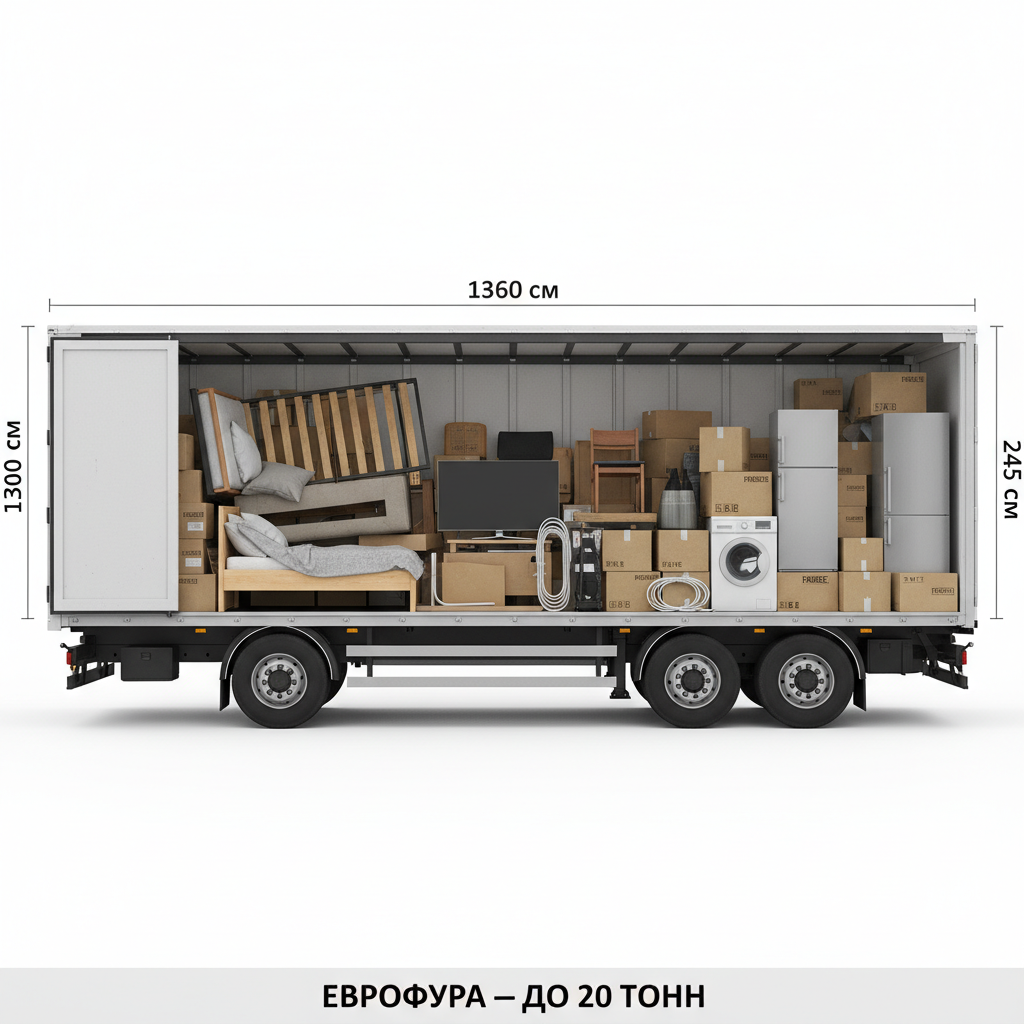
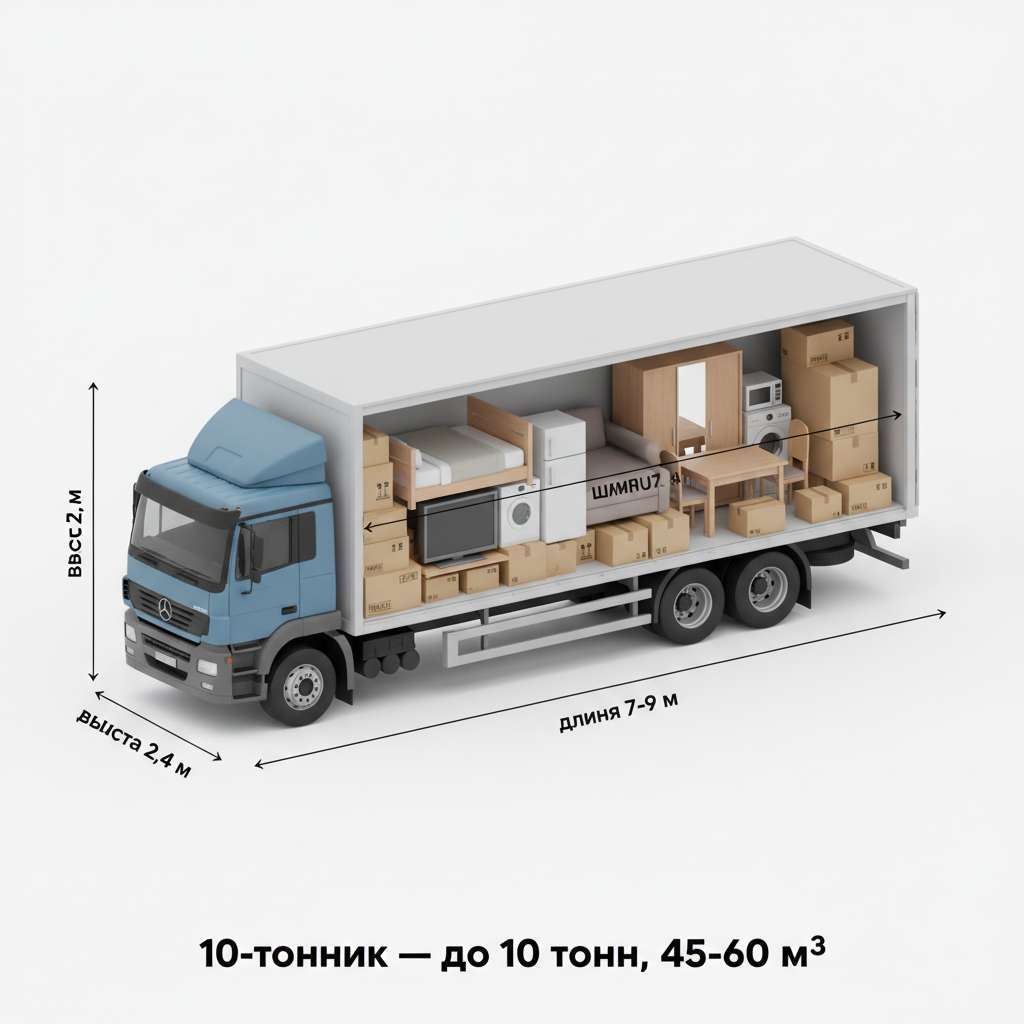
feat: 5 vehicle types with real specs + CNAME for ex-trans.ru
- Regenerated all vehicle scheme images with client's exact specs:
  Gazelle (1.5t), 5t (16-24m³), 5t ext (24-55m³), 10t (45-60m³), Fura (86m³)
- Updated both index.html and index-v2.html
- Added CNAME for custom domain ex-trans.ru

diff --git a/index-v2.html b/index-v2.html
@@ -618,10 +618,11 @@ section{padding:48px 0}
       </div>
     </div>
     <div class="vehicles-grid reveal">
-      <div class="vehicle-card"><img src="img/vehicle-1.jpg" alt="Газель — до 1.5 тонн" loading="lazy" width="280" height="210"><div class="vehicle-card-body"><h3>Газель</h3><p>до 1.5 т / 9 м&sup3;</p></div></div>
-      <div class="vehicle-card"><img src="img/vehicle-2.jpg" alt="5-тонник" loading="lazy" width="280" height="210"><div class="vehicle-card-body"><h3>5-тонник</h3><p>до 5 т / 30 м&sup3;</p></div></div>
-      <div class="vehicle-card"><img src="img/vehicle-3.jpg" alt="10-тонник" loading="lazy" width="280" height="210"><div class="vehicle-card-body"><h3>10-тонник</h3><p>до 10 т / 45 м&sup3;</p></div></div>
-      <div class="vehicle-card"><img src="img/vehicle-4.jpg" alt="Еврофура 20 тонн" loading="lazy" width="280" height="210"><div class="vehicle-card-body"><h3>Еврофура</h3><p>до 20 т / 82 м&sup3;</p></div></div>
+      <div class="vehicle-card"><img src="img/vehicle-1.jpg" alt="Газель" loading="lazy" width="280" height="210"><div class="vehicle-card-body"><h3>Газель</h3><p>до 1.5 т / 4-6 м</p></div></div>
+      <div class="vehicle-card"><img src="img/vehicle-2.jpg" alt="5-тонник" loading="lazy" width="280" height="210"><div class="vehicle-card-body"><h3>5-тонник</h3><p>до 5 т / 16-24 м&sup3;</p></div></div>
+      <div class="vehicle-card"><img src="img/vehicle-3.jpg" alt="5-тонник удл." loading="lazy" width="280" height="210"><div class="vehicle-card-body"><h3>5-тонник удл.</h3><p>до 5 т / 24-55 м&sup3;</p></div></div>
+      <div class="vehicle-card"><img src="img/vehicle-4.jpg" alt="10-тонник" loading="lazy" width="280" height="210"><div class="vehicle-card-body"><h3>10-тонник</h3><p>до 10 т / 45-60 м&sup3;</p></div></div>
+      <div class="vehicle-card"><img src="img/vehicle-5.jpg" alt="Фура" loading="lazy" width="280" height="210"><div class="vehicle-card-body"><h3>Фура</h3><p>до 20 т / 86 м&sup3;</p></div></div>
     </div>
     <h3 style="text-align:center;margin-bottom:16px;font-size:1.1rem" class="reveal">Реальные погрузки</h3>
     <div class="carousel-wrapper loading-carousel">

diff --git a/index.html b/index.html
@@ -2247,16 +2247,19 @@
       <h3 class="text-h3 text-center mb-4 reveal">Виды транспорта</h3>
       <div class="vehicle-grid reveal">
         <div class="vehicle-card">
-          <img src="img/vehicle-1.jpg" alt="Газель — до 1.5 тонн" loading="lazy">
+          <img src="img/vehicle-1.jpg" alt="Газель — до 1.5 т, 4-6×2×2.15 м" loading="lazy">
         </div>
         <div class="vehicle-card">
-          <img src="img/vehicle-2.jpg" alt="5-тонник — до 3 тонн" loading="lazy">
+          <img src="img/vehicle-2.jpg" alt="5-тонник — до 5 т, 16-24 м³" loading="lazy">
         </div>
         <div class="vehicle-card">
-          <img src="img/vehicle-3.jpg" alt="10-тонник — до 5 тонн" loading="lazy">
+          <img src="img/vehicle-3.jpg" alt="5-тонник удл. — до 5 т, 24-55 м³" loading="lazy">
         </div>
         <div class="vehicle-card">
-          <img src="img/vehicle-4.jpg" alt="Еврофура — до 20 тонн" loading="lazy">
+          <img src="img/vehicle-4.jpg" alt="10-тонник — до 10 т, 45-60 м³" loading="lazy">
+        </div>
+        <div class="vehicle-card">
+          <img src="img/vehicle-5.jpg" alt="Фура — до 20 т, 86 м³" loading="lazy">
         </div>
       </div>
 
